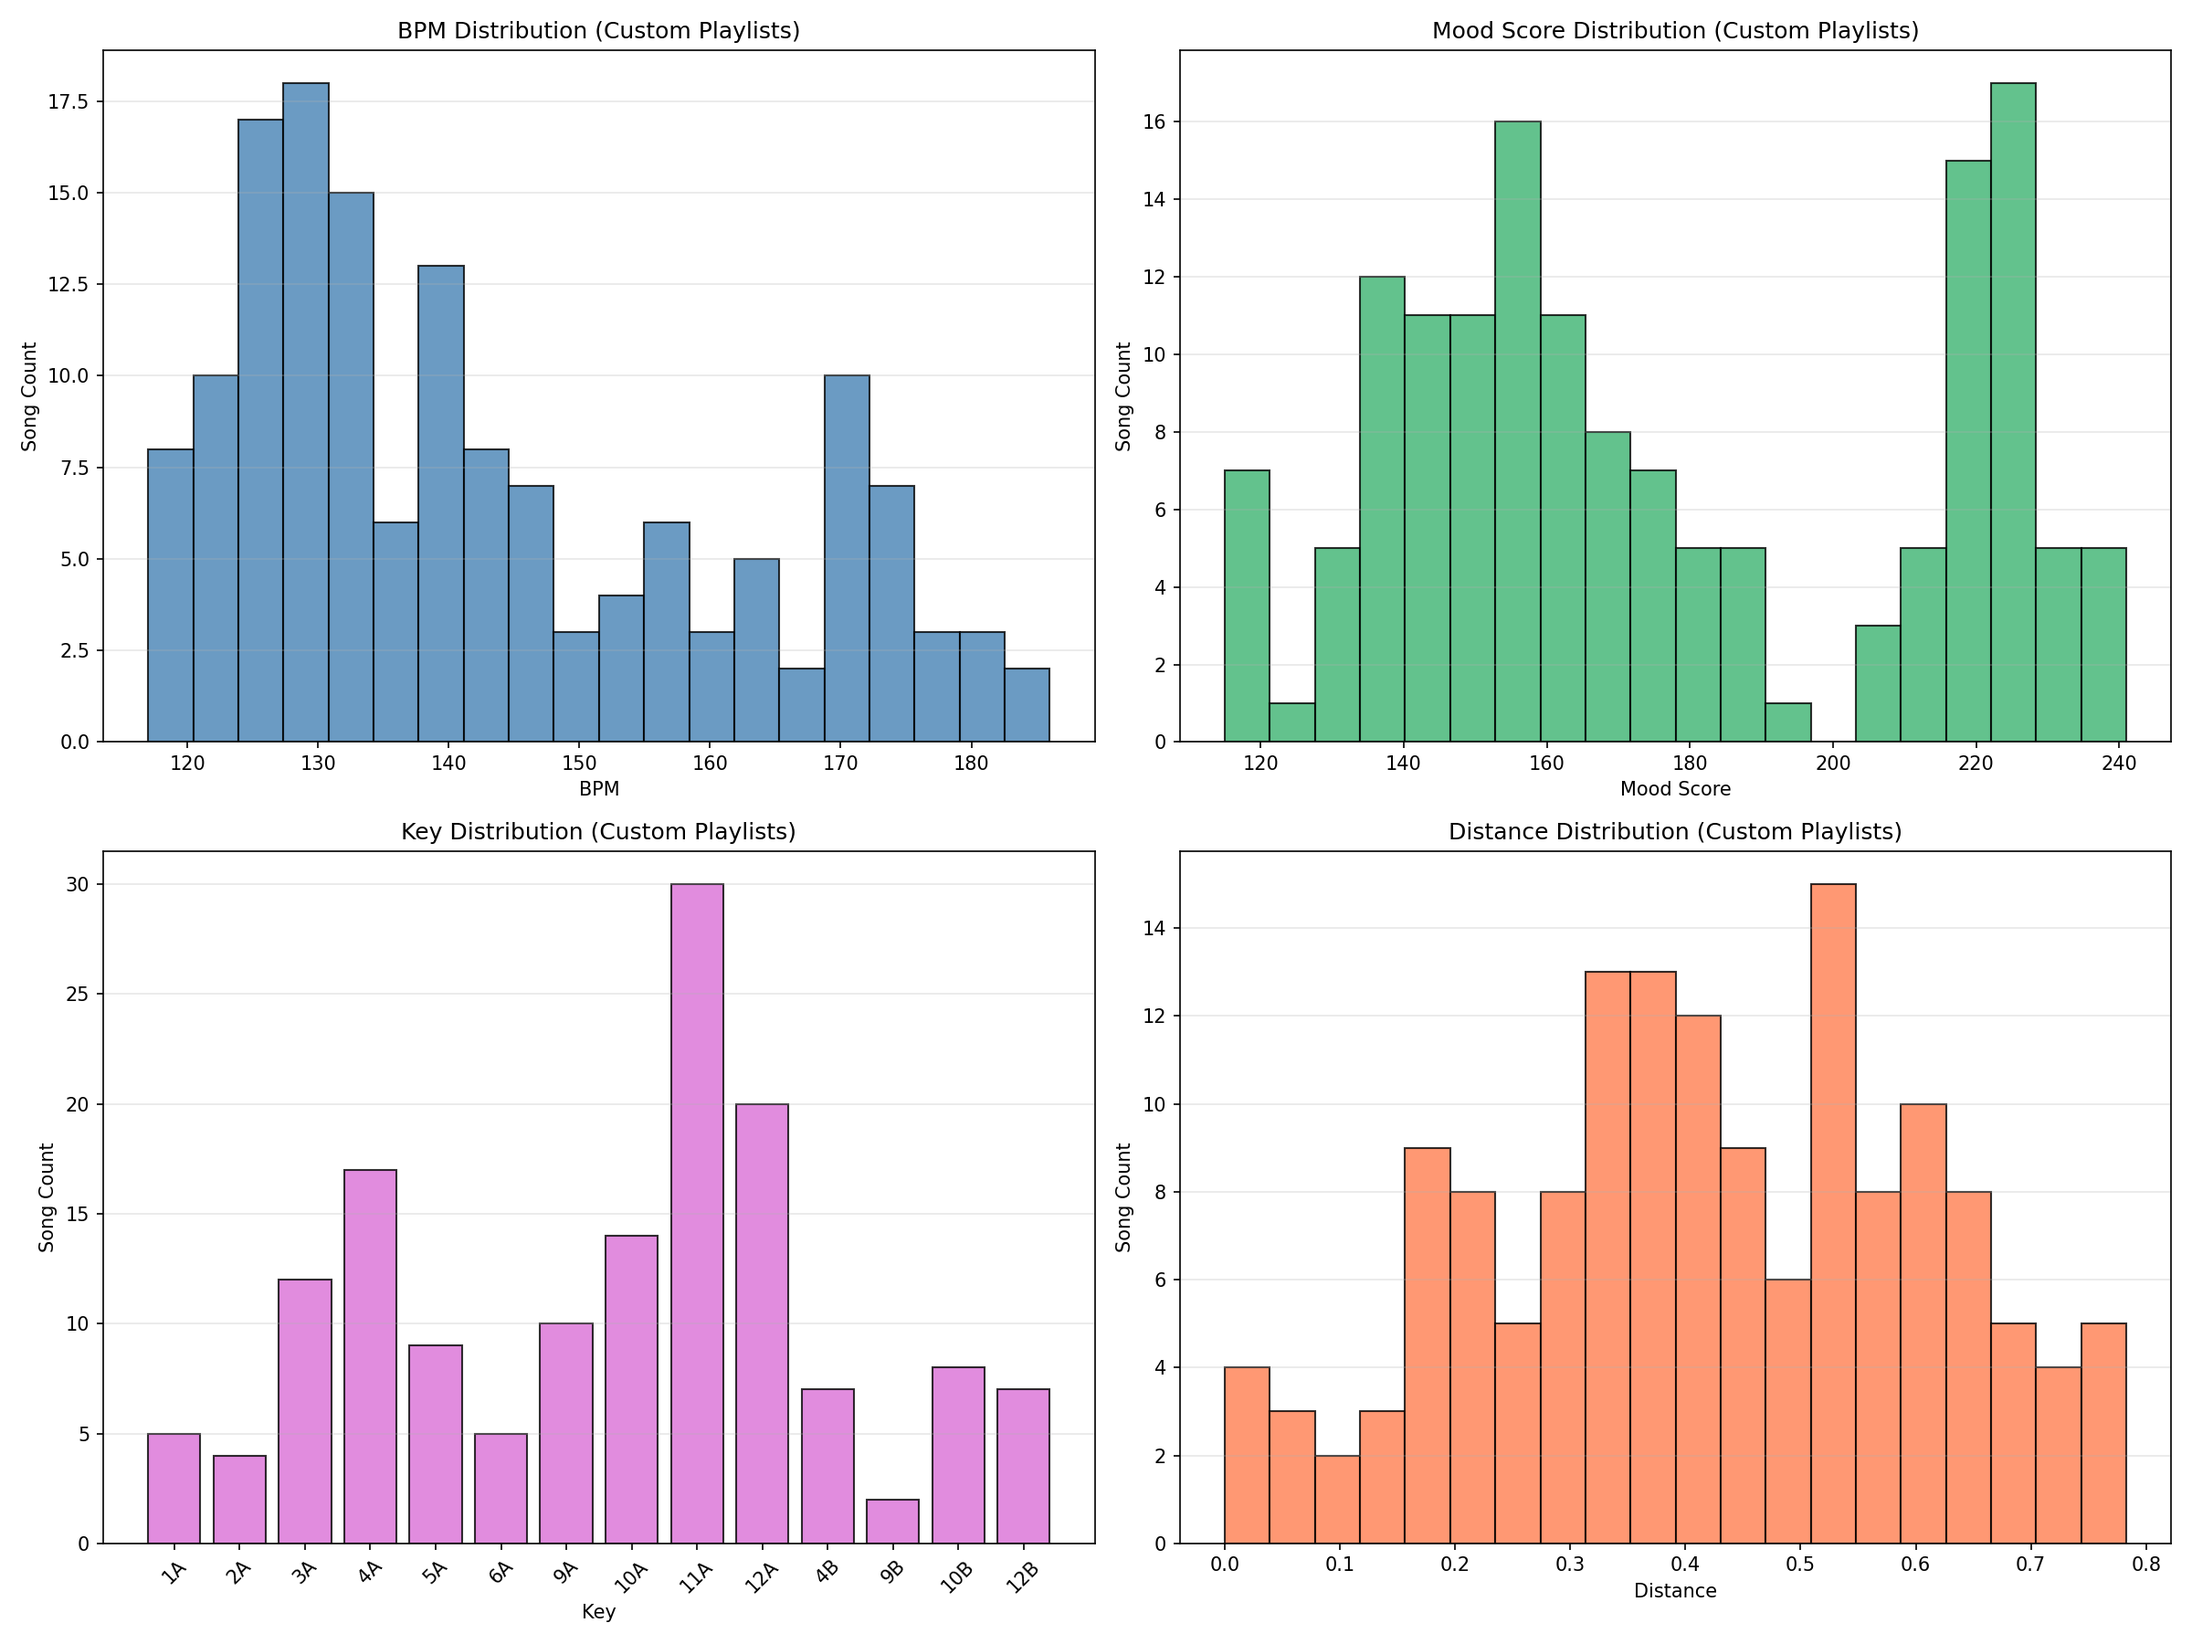
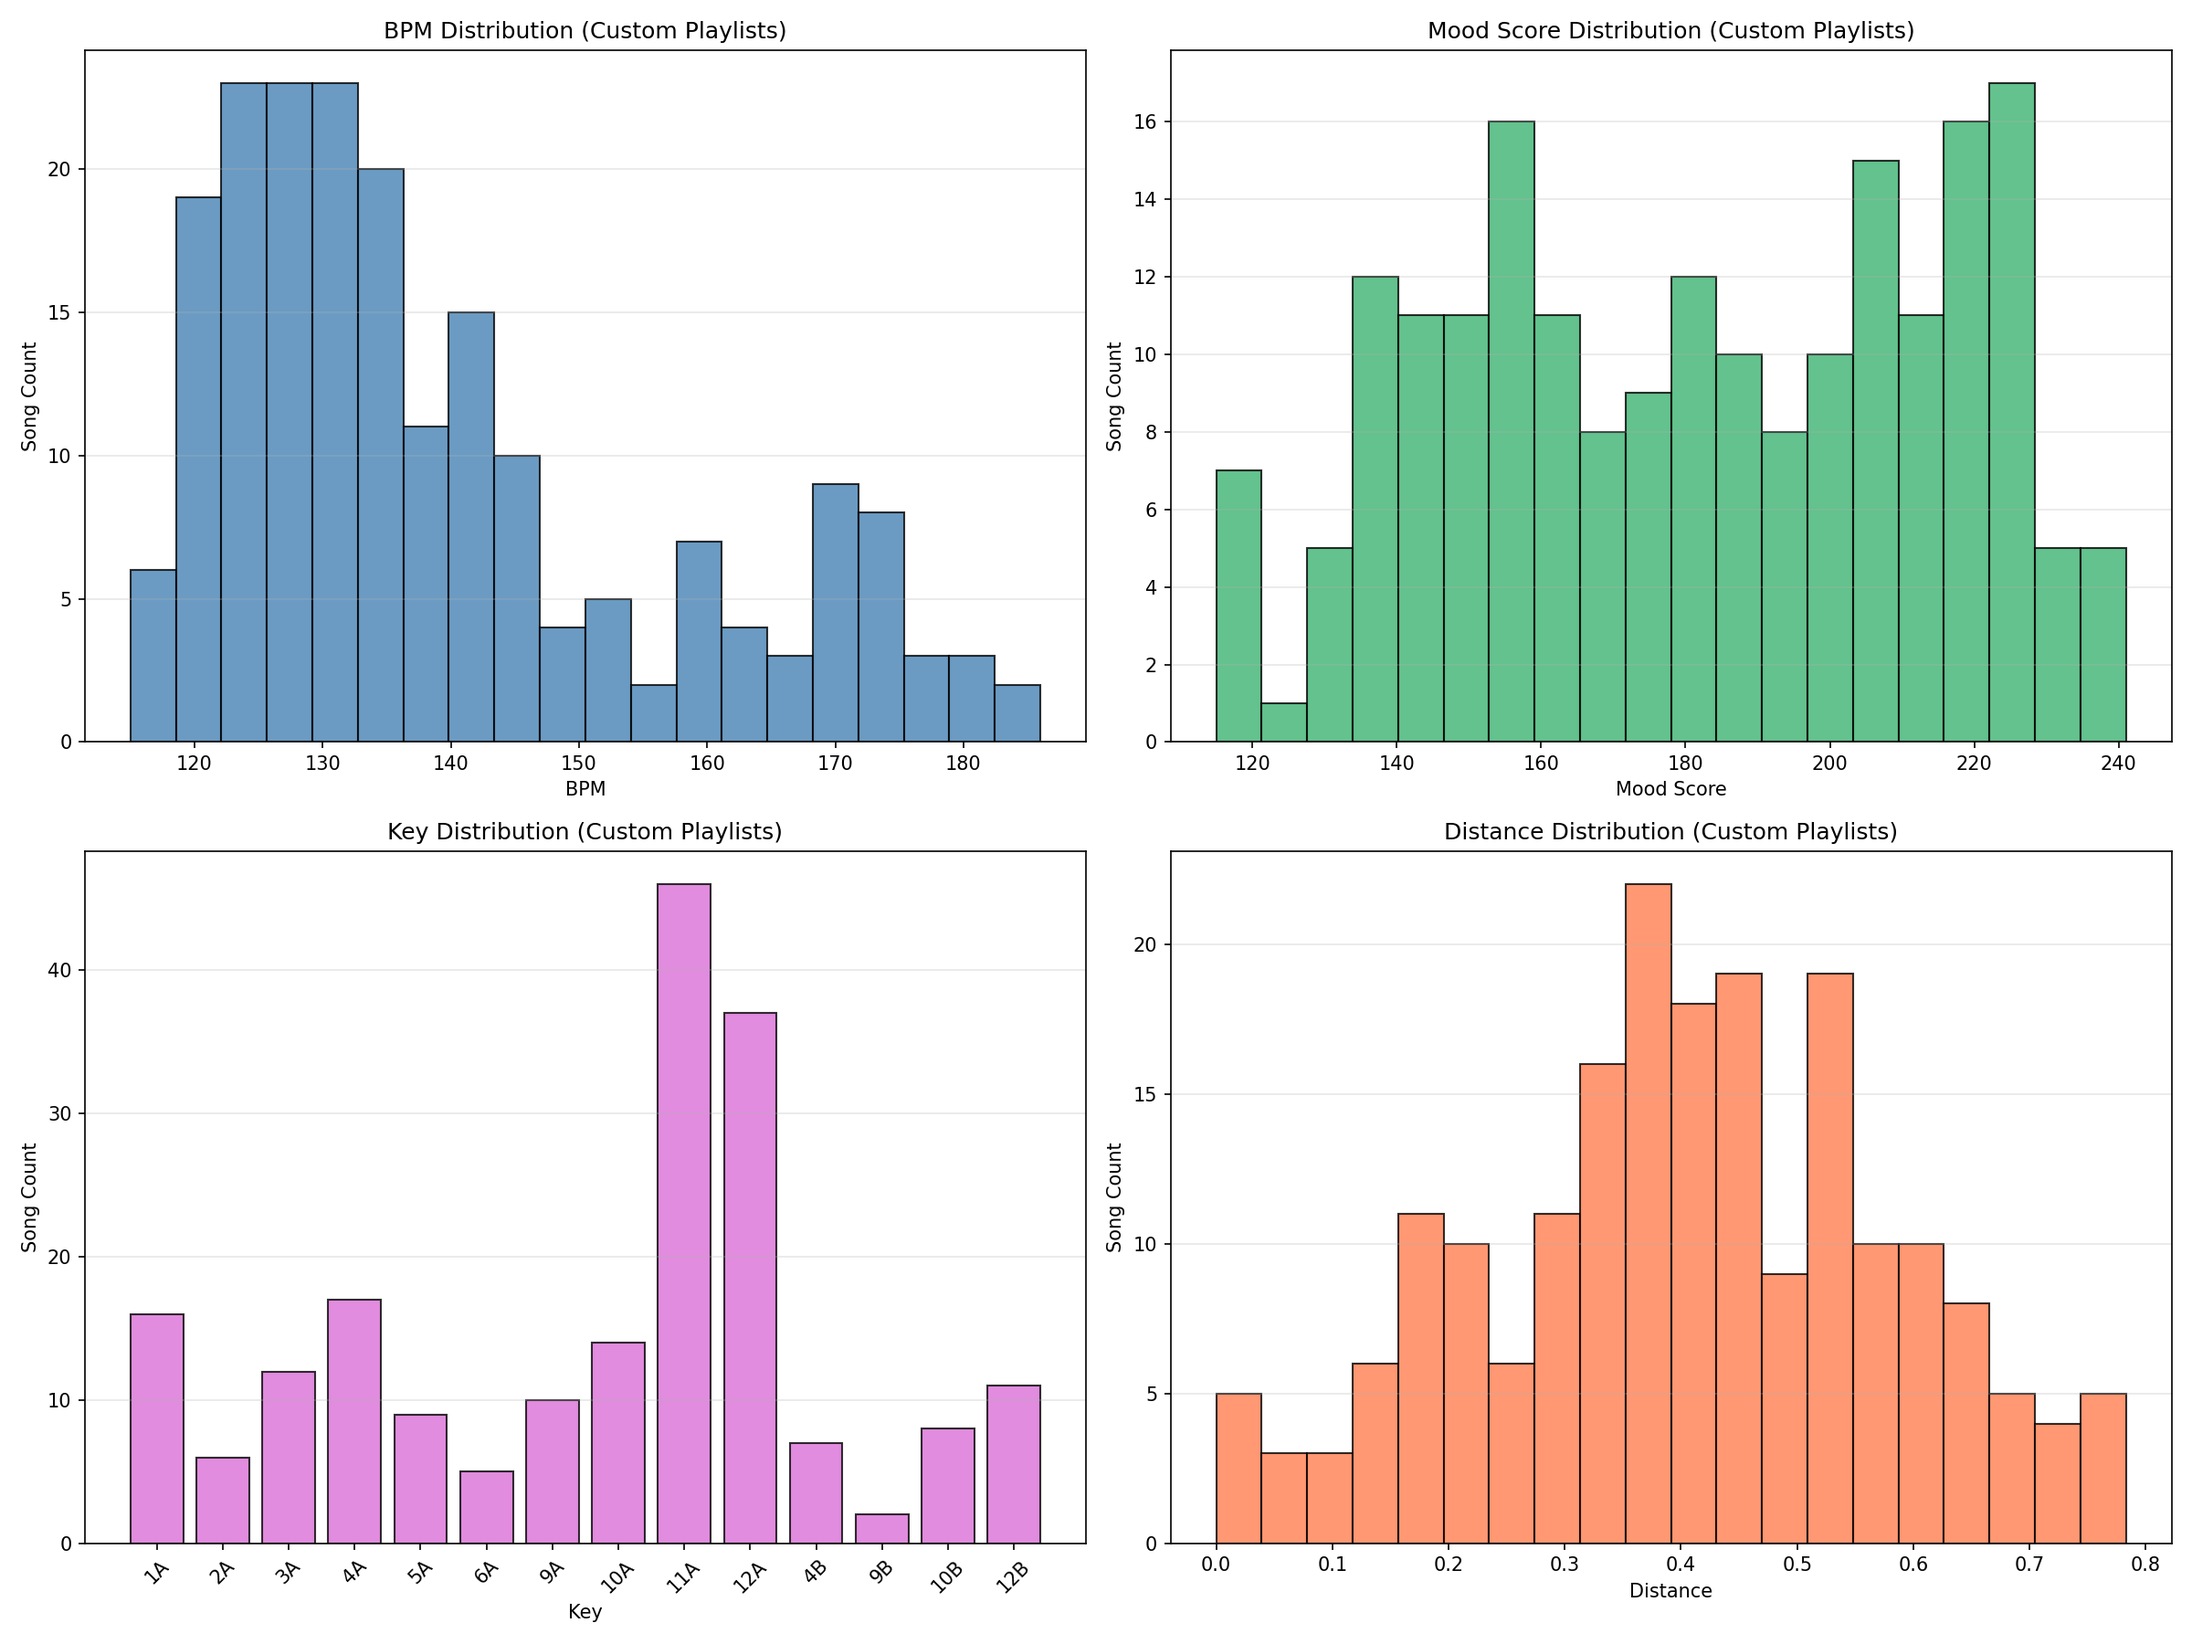
Commit never_have_i_ever

diff --git a/README.md b/README.md
@@ -434,16 +434,17 @@ The dashboard will start locally at `http://127.0.0.1:8050/`
 **Run command:**
 
 ```bash
-python src/db/count_playlists.py
+python src/db/count_custom_playlists.py
 ```
 
 **Sample output:**
 
 ```text
-Number of custom playlists: 3
+Number of custom playlists: 4
   - Snap Out Of It
   - SCARING ME
   - LABOUR
+  - Never Have I Ever
 ```
 
 ### Visualize Custom Playlist Distributions
@@ -460,21 +461,23 @@ python src/analysis/visualize_custom_playlists.py
 
 ```text
 === Custom Playlist Summary ===
-Total playlists: 3
-Total songs: 150
+Total playlists: 4
+Total songs: 200
 
 Songs per playlist:
 playlist_name
-LABOUR            50
-SCARING ME        50
-Snap Out Of It    50
+LABOUR               50
+Never Have I Ever    50
+SCARING ME           50
+Snap Out Of It       50
 
 Average features by playlist:
-                   bpm  valence  energy  dance  mood_score  distance
-playlist_name
-LABOUR          165.64    42.42   70.90  51.90      165.22      0.51
-SCARING ME      133.76    27.58   58.66  55.58      141.82      0.46
-Snap Out Of It  128.84    73.14   79.02  70.94      223.10      0.28
+                      bpm  valence  energy  dance  mood_score  distance
+playlist_name                                                          
+LABOUR             165.64    42.42   70.90  51.90      165.22      0.51
+Never Have I Ever  128.68    56.90   76.30  64.50      197.70      0.37
+SCARING ME         133.76    27.58   58.66  55.58      141.82      0.46
+Snap Out Of It     128.84    73.14   79.02  70.94      223.10      0.28
 ```
 
 **Custom Playlist Distributions Chart:**
